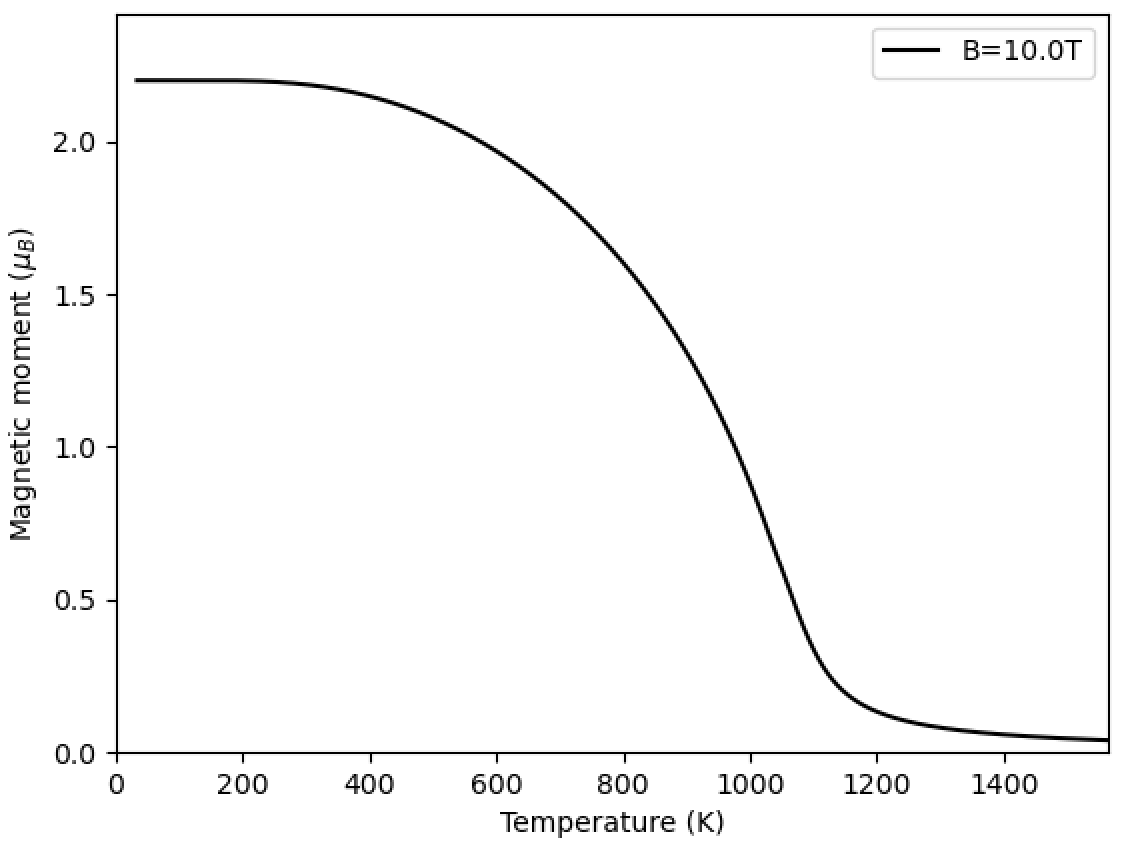
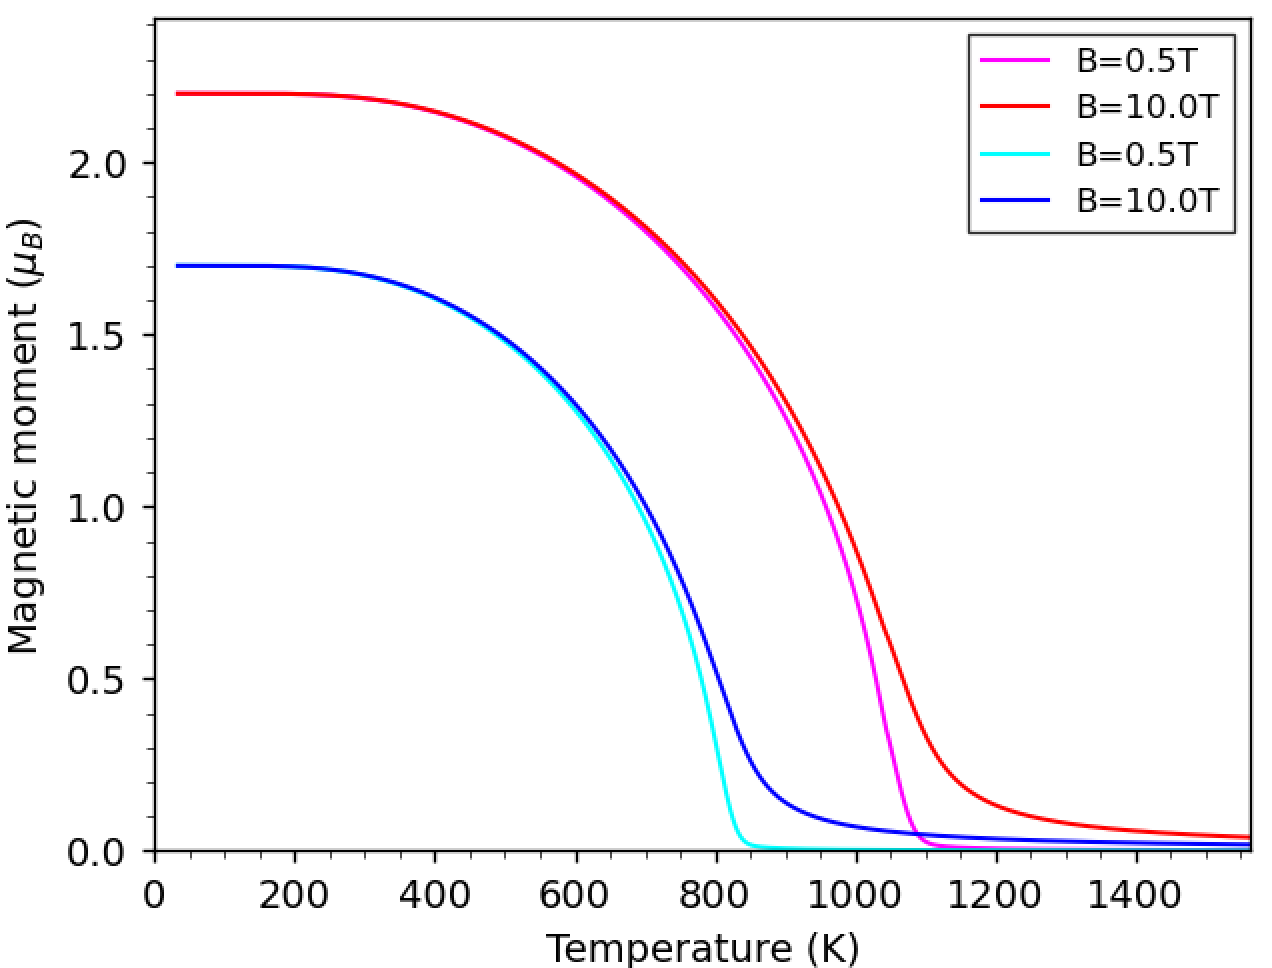
revise descriptions

Changed region(s): [[0.0, 0.0, 0.9929, 1.0], [0.3413, 0.3066, 0.4344, 0.3986], [0.5895, 0.3679, 0.6206, 0.4292]]

diff --git a/README.md b/README.md
@@ -10,25 +10,37 @@ Following the description in ["Z. Q. You, J. H. Zhen, T. P. Hou, D. Zhang, W. Zh
 Before calculation, you should see the contents of Weiss.py.  
 In main() function, you will define input parameters ndiv, magfield, colors, Tc, nmag, struc for the system under consideration.
 
+You should modify the parameters (m0, magfield, colors, Tc, nmag) in Weiss.py before calculations.
 You can calculate the property by the following command.
 ```bash
-python Weiss.py 2.2 -p
+python Weiss.py -p
 ```
-Here, 2.2 means the magnetic moment of Fe by DFT.
--p activates the plot option.
+Here, "-p" activates the plot option.
+
+## Theory
+The magnetization curve is calculated by the Weiss mean-field theory.
+Therefore, the curve is simulated by Brillouin function. 
+$$
+\begin{align}
+m(B,T) &= m_0 B\left(J, \cfrac{m_0 (B+\lambda m(B,T))}{k_BT})\right \\
+B(J,x) &= \cfrac{2J+1}{2J} \coth{\left( \cfrac{2J+1}{2J}x \right)} - \cfrac{1}{2J} \coth{\left( \cfrac{1}{2J}x \right)}
+\end{align}
+$$
+Here, $${\lambda}$$ stands for the molecular field constant given by the following equation.
+$$
+\lambda = \cfrac{3Jk_BT_C}{J(J+1)g^2\mu_B^2}
+$$
+
+The magnetic Gibbs free energy will be given by the integration of the magnetization curve with respect to magnetic field as follows.
+$$
+\begin{align}
+\Delta G_m(H,T) = -\int_0^H dH' m(H',T)
+\end{align}
+$$
 
 ### Result figures
 - Moment.pdf ... Magnetic moment vs temperature
 ![](figs/Moment.png)
-
-- Cm.pdf ... Specific heat vs temperature
-![](figs/Cm.png)
-
-- dHm.pdf ... Entalphy vs temperature
-![](figs/dHm.png)
-
-- dSm.pdf ... Entropy vs temperature
-![](figs/dSm.png)
 
 - dGm.pdf ... Magnetic Gibbs free energy vs tempearture
 ![](figs/dGm.png)
